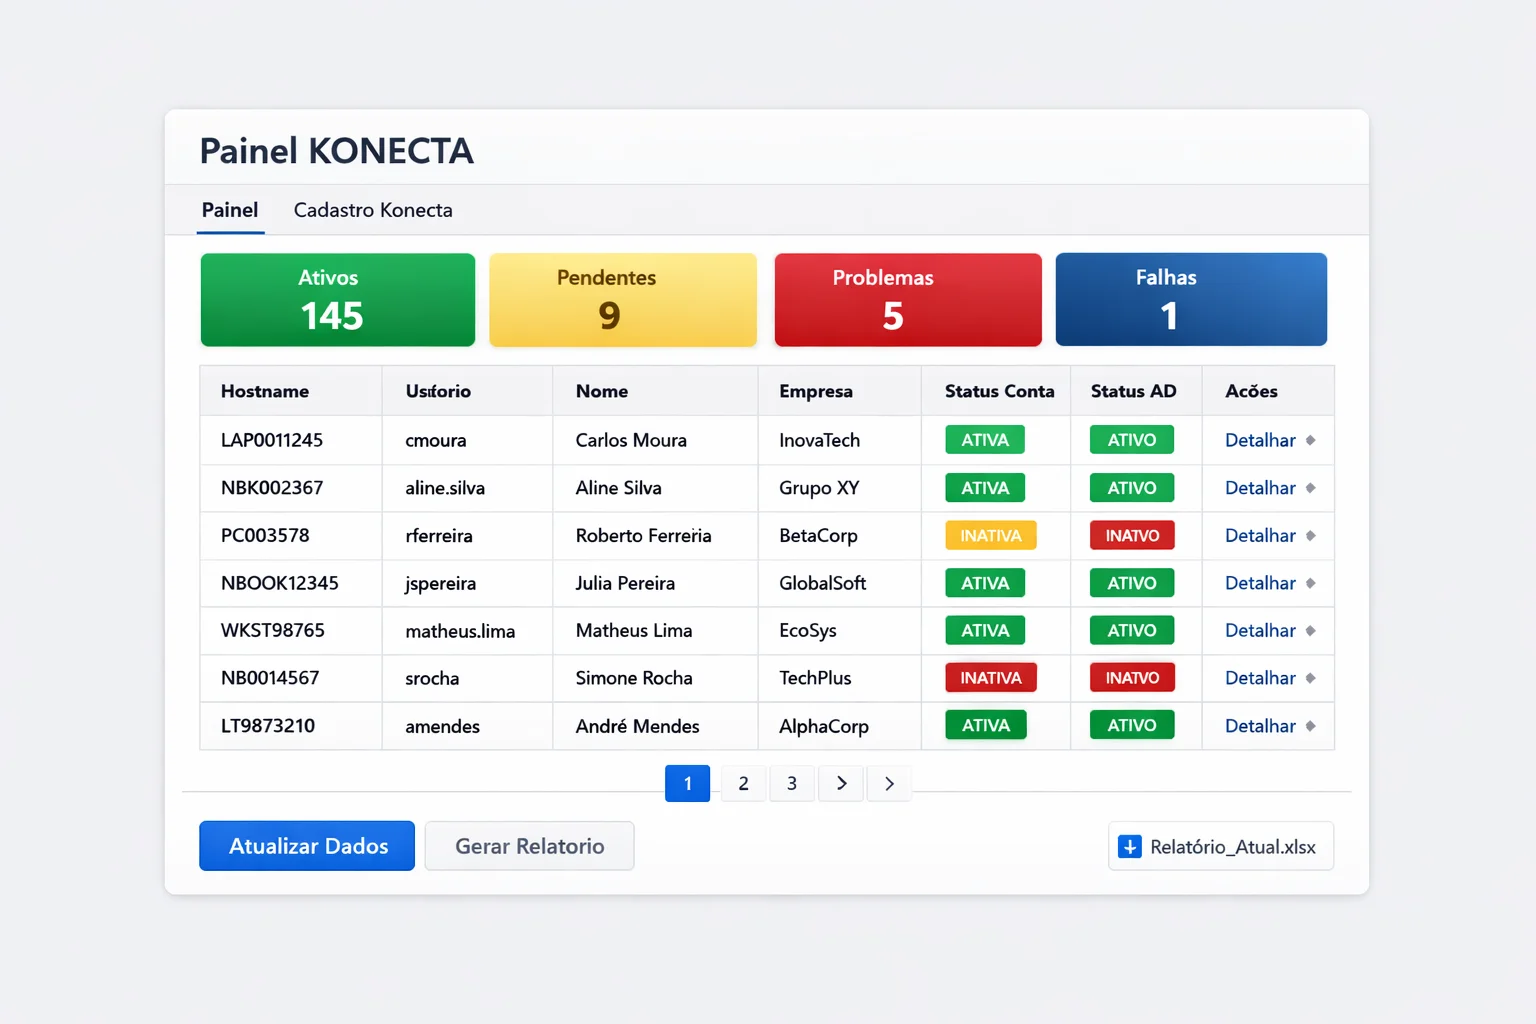
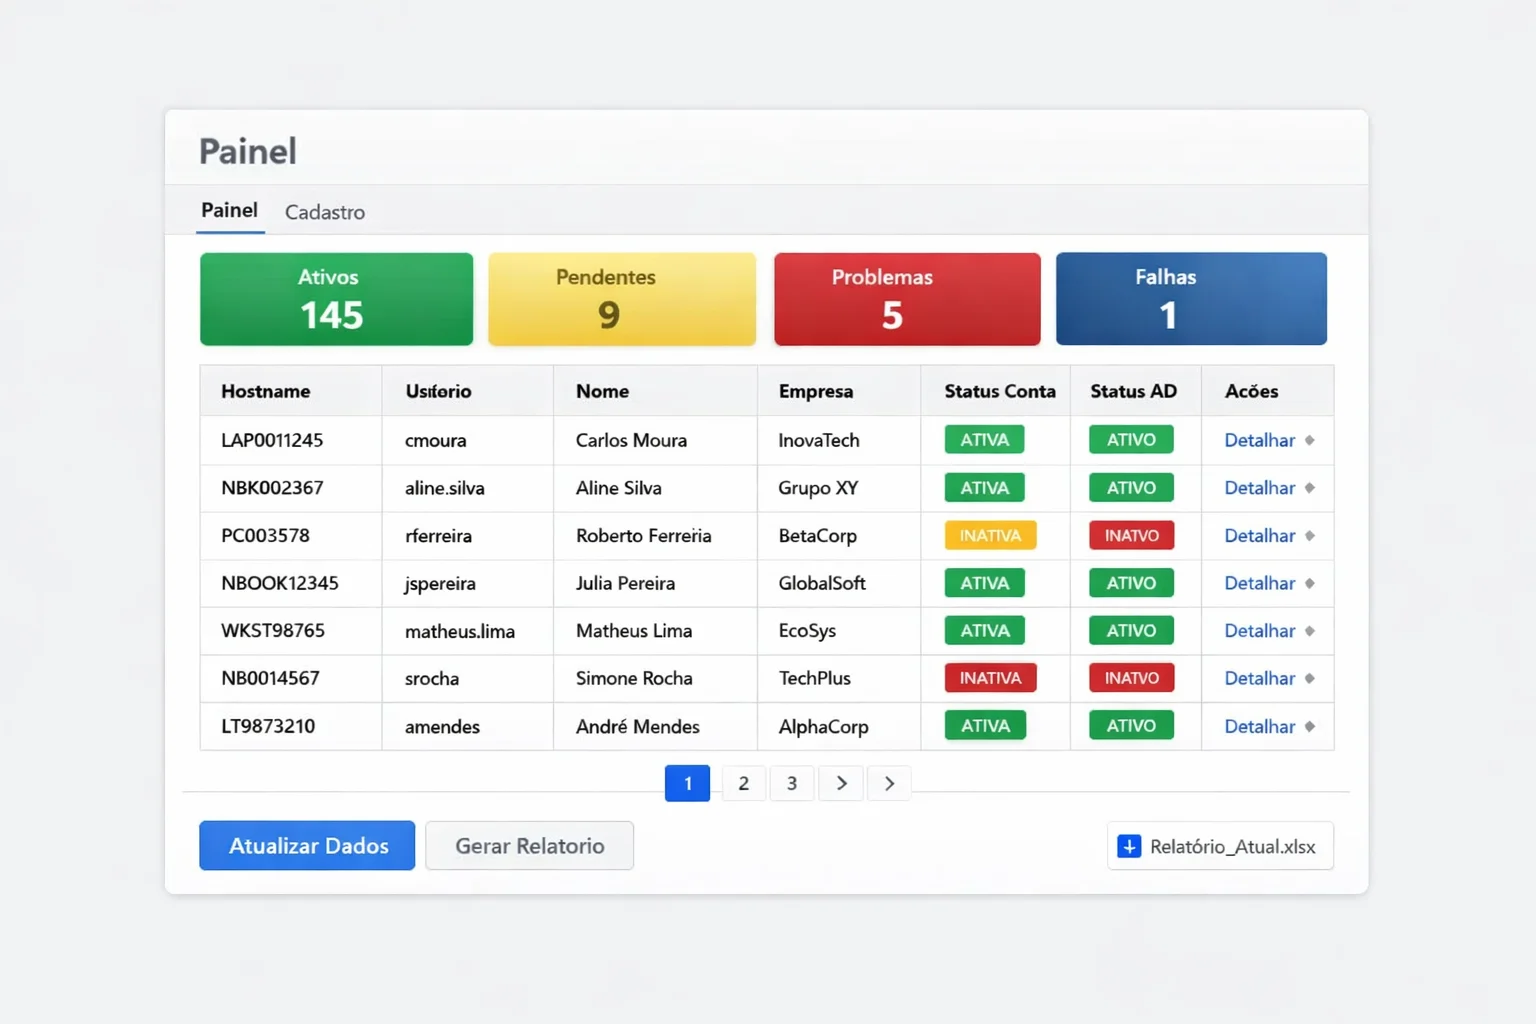
Atualizado img notebook-manage

diff --git a/app/templates/projects/notebook_manager.html b/app/templates/projects/notebook_manager.html
@@ -1,7 +1,7 @@
 {% block project_content %}
     <h2 class="text-2xl font-bold mt-10 mb-4">Visão Geral</h2>
     <p class="leading-relaxed">
-        O <strong>Notebook Manager – Konecta</strong> é um sistema interno para gestão e auditoria de notebooks corporativos.
+        O <strong>Notebook Manager</strong> é um sistema interno para gestão e auditoria de notebooks corporativos.
         Ele centraliza informações críticas, melhora a governança operacional e garante rastreabilidade completa entre
         <strong>Notebook × Usuário</strong>.
     </p>
